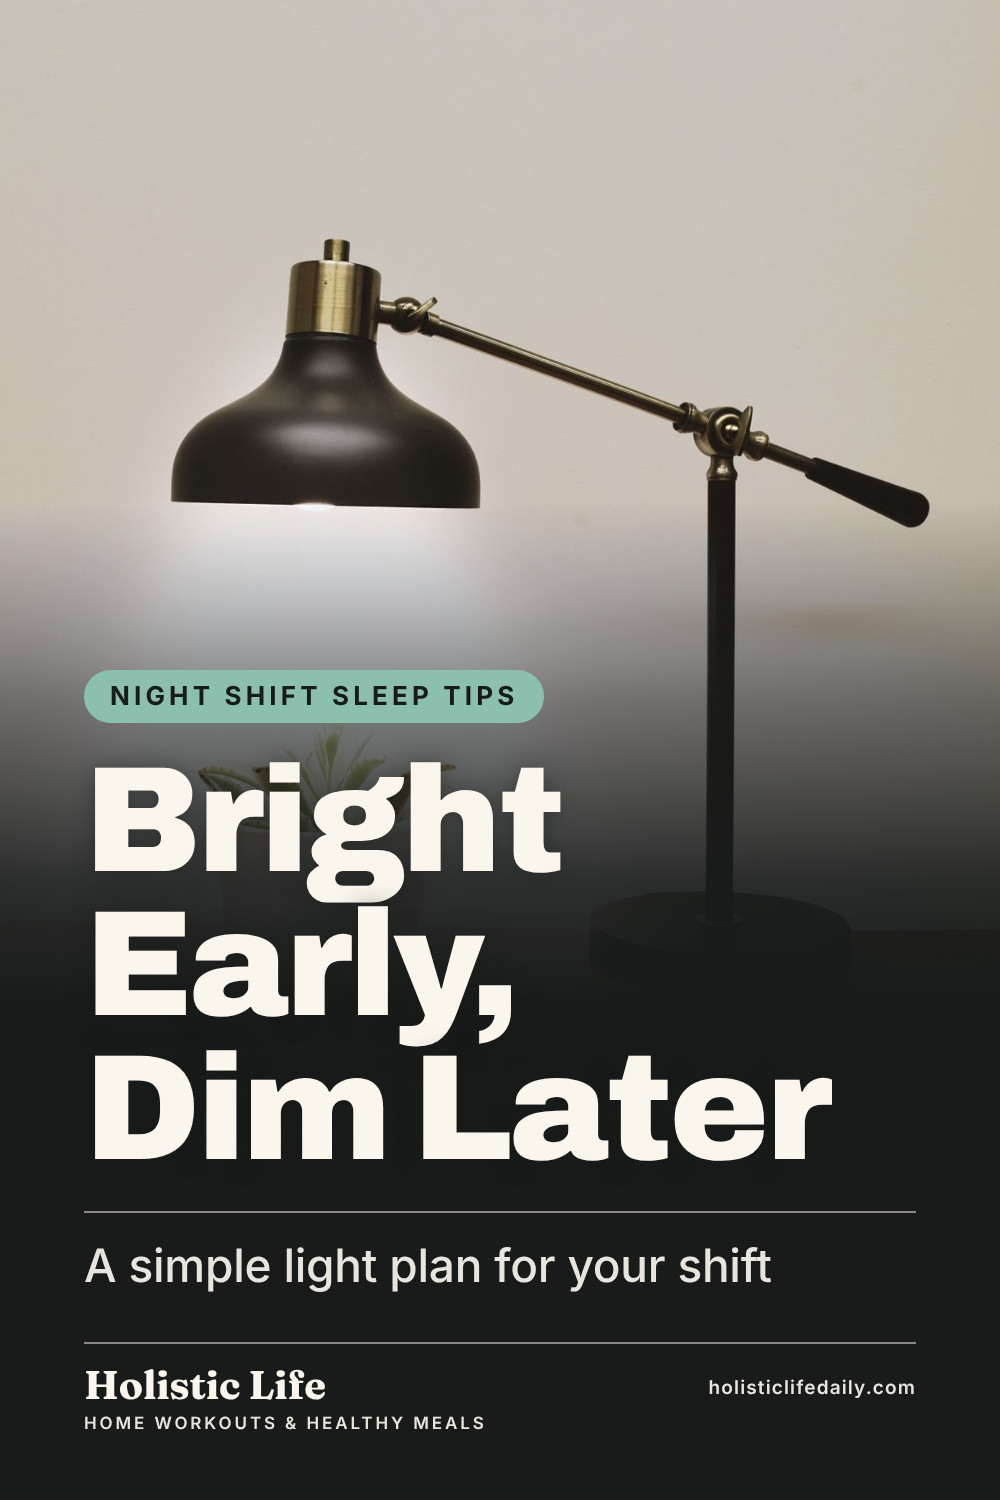
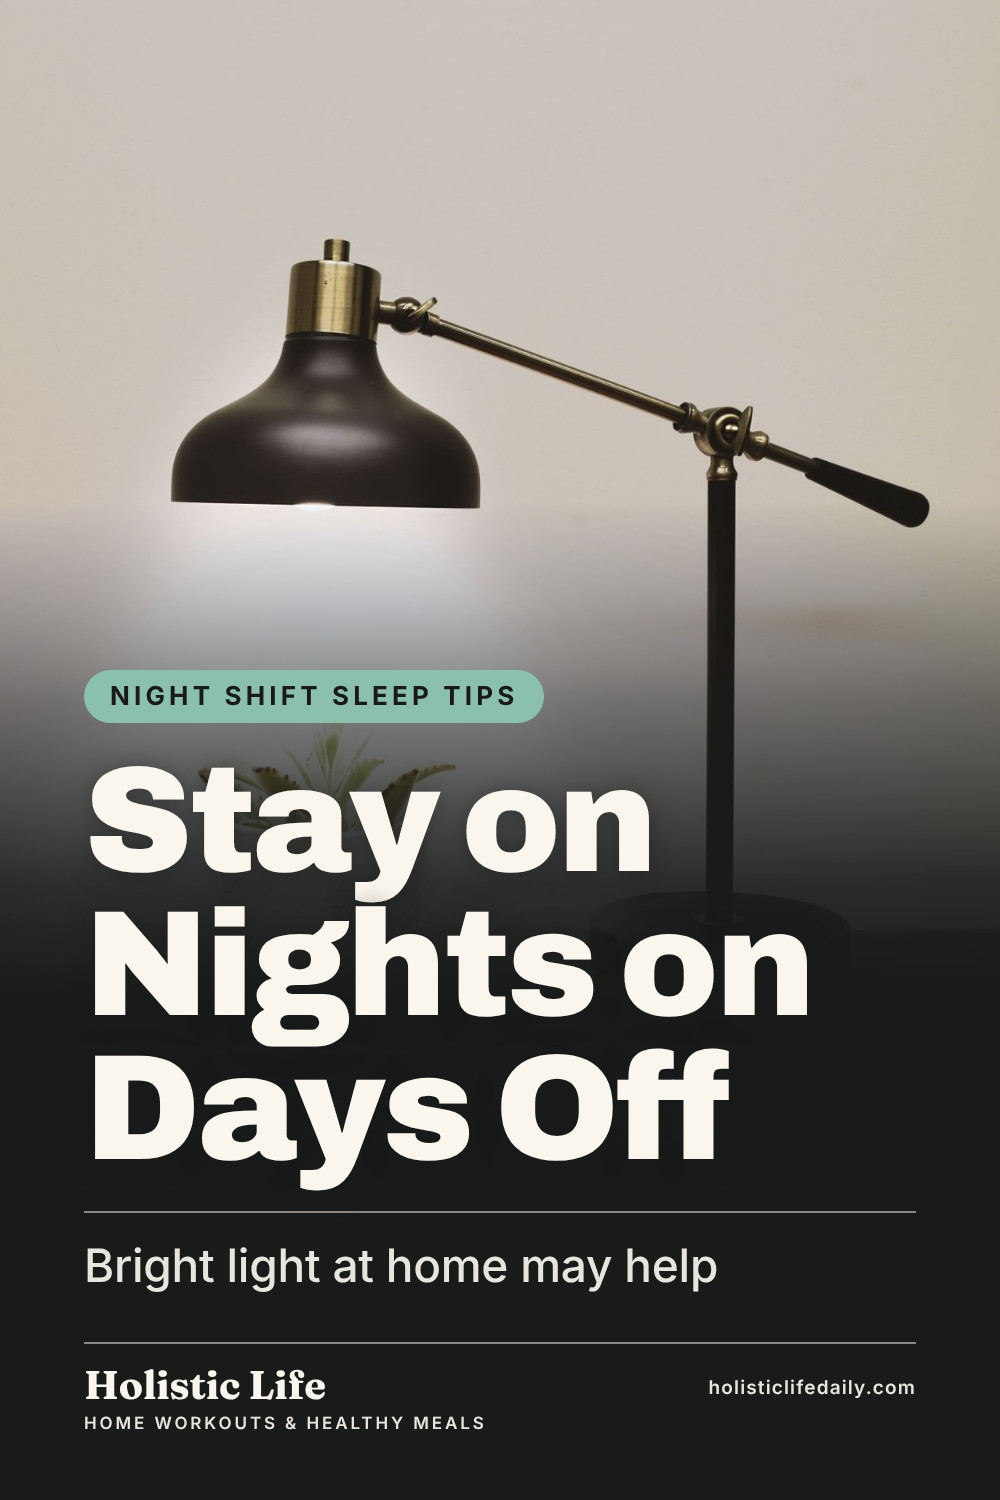
Publish sleep guide days-off lamp update
Claude-Session: https://claude.ai/code/session_017QtdKFqWoupn52W2yrGxz3

Changed region(s): [[0.093, 0.4907, 0.837, 0.7973], [0.062, 0.828, 0.775, 0.8587]]

diff --git a/guides/night-shift-sleep-tips/index.html b/guides/night-shift-sleep-tips/index.html
@@ -4,18 +4,18 @@
 <meta charset="utf-8">
 <meta name="viewport" content="width=device-width, initial-scale=1">
 <title>Sleep Tips for Night Shift Workers: How to Sleep Better | Holistic Life</title>
-<meta name="description" content="Sleep tips for night shift workers: how to darken your room, cut screen light, use a bright lamp on shift and build a wind-down routine for daytime sleep.">
+<meta name="description" content="Sleep tips for night shift workers: how to darken your room, cut screen light, use a bright lamp to stay on nights on days off and wind down well.">
 <link rel="canonical" href="https://holisticlifedaily.com/guides/night-shift-sleep-tips/">
 <meta name="p:domain_verify" content="14c06b8bf0c35beb512a518e90c0c33b">
 <meta property="og:site_name" content="Holistic Life">
 <meta property="og:type" content="article">
 <meta property="og:title" content="Sleep Tips for Night Shift Workers: How to Sleep Better | Holistic Life">
-<meta property="og:description" content="Sleep tips for night shift workers: how to darken your room, cut screen light, use a bright lamp on shift and build a wind-down routine for daytime sleep.">
+<meta property="og:description" content="Sleep tips for night shift workers: how to darken your room, cut screen light, use a bright lamp to stay on nights on days off and wind down well.">
 <meta property="og:url" content="https://holisticlifedaily.com/guides/night-shift-sleep-tips/">
 <meta property="og:image" content="https://holisticlifedaily.com/pins/night-shift-sleep-tips-1.jpg">
 <meta name="twitter:card" content="summary_large_image">
 <meta name="twitter:title" content="Sleep Tips for Night Shift Workers: How to Sleep Better | Holistic Life">
-<meta name="twitter:description" content="Sleep tips for night shift workers: how to darken your room, cut screen light, use a bright lamp on shift and build a wind-down routine for daytime sleep.">
+<meta name="twitter:description" content="Sleep tips for night shift workers: how to darken your room, cut screen light, use a bright lamp to stay on nights on days off and wind down well.">
 <meta name="twitter:image" content="https://holisticlifedaily.com/pins/night-shift-sleep-tips-1.jpg">
 <link rel="icon" type="image/svg+xml" href="../../assets/favicon.svg">
 <link rel="alternate" type="application/rss+xml" title="Holistic Life" href="../../feed.xml">
@@ -23,9 +23,9 @@
 <link rel="preload" href="../../assets/fonts/archivo-latin-800-normal.woff2" as="font" type="font/woff2" crossorigin>
 <link rel="stylesheet" href="../../assets/site.css">
 <script defer src="https://cloud.umami.is/script.js" data-website-id="9c8e6ba1-862d-4f0f-8a5b-29bc94f84b19"></script>
-<script type="application/ld+json">{"@context": "https://schema.org", "@type": "Article", "headline": "Sleep Tips for Night Shift Workers: How to Sleep Better", "description": "Sleep tips for night shift workers: how to darken your room, cut screen light, use a bright lamp on shift and build a wind-down routine for daytime sleep.", "datePublished": "2026-11-18", "dateModified": "2026-11-18", "mainEntityOfPage": "https://holisticlifedaily.com/guides/night-shift-sleep-tips/", "author": {"@type": "Organization", "name": "Holistic Life", "url": "https://holisticlifedaily.com/"}, "publisher": {"@type": "Organization", "name": "Holistic Life", "url": "https://holisticlifedaily.com/"}, "image": ["https://holisticlifedaily.com/pins/night-shift-sleep-tips-1.jpg", "https://holisticlifedaily.com/pins/night-shift-sleep-tips-2.jpg", "https://holisticlifedaily.com/pins/night-shift-sleep-tips-3.jpg", "https://holisticlifedaily.com/pins/night-shift-sleep-tips-4.jpg"]}</script>
+<script type="application/ld+json">{"@context": "https://schema.org", "@type": "Article", "headline": "Sleep Tips for Night Shift Workers: How to Sleep Better", "description": "Sleep tips for night shift workers: how to darken your room, cut screen light, use a bright lamp to stay on nights on days off and wind down well.", "datePublished": "2026-11-18", "dateModified": "2026-11-18", "mainEntityOfPage": "https://holisticlifedaily.com/guides/night-shift-sleep-tips/", "author": {"@type": "Organization", "name": "Holistic Life", "url": "https://holisticlifedaily.com/"}, "publisher": {"@type": "Organization", "name": "Holistic Life", "url": "https://holisticlifedaily.com/"}, "image": ["https://holisticlifedaily.com/pins/night-shift-sleep-tips-1.jpg", "https://holisticlifedaily.com/pins/night-shift-sleep-tips-2.jpg", "https://holisticlifedaily.com/pins/night-shift-sleep-tips-3.jpg", "https://holisticlifedaily.com/pins/night-shift-sleep-tips-4.jpg"]}</script>
 <script type="application/ld+json">{"@context": "https://schema.org", "@type": "BreadcrumbList", "itemListElement": [{"@type": "ListItem", "position": 1, "name": "Holistic Life", "item": "https://holisticlifedaily.com/"}, {"@type": "ListItem", "position": 2, "name": "Sleep Tips for Night Shift Workers: How to Sleep Better", "item": "https://holisticlifedaily.com/guides/night-shift-sleep-tips/"}]}</script>
-<script type="application/ld+json">{"@context": "https://schema.org", "@type": "FAQPage", "mainEntity": [{"@type": "Question", "name": "Is it okay to look at my phone before sleep after a night shift?", "acceptedAnswer": {"@type": "Answer", "text": "It is better to put it away. If you need it, use a red or night light mode and keep the brightness low. Light is only part of it, since stressful messages and news can keep you awake too."}}, {"@type": "Question", "name": "Do I need a light therapy lamp?", "acceptedAnswer": {"@type": "Answer", "text": "No. It is one option for getting bright light during a shift. If you have an eye condition, or you take medicine that affects light sensitivity, ask a clinician before you use one. Check your workplace rules before you put one at your workstation."}}]}</script>
+<script type="application/ld+json">{"@context": "https://schema.org", "@type": "FAQPage", "mainEntity": [{"@type": "Question", "name": "Is it okay to look at my phone before sleep after a night shift?", "acceptedAnswer": {"@type": "Answer", "text": "It is better to put it away. If you need it, use a red or night light mode and keep the brightness low. Light is only part of it, since stressful messages and news can keep you awake too."}}, {"@type": "Question", "name": "Do I need a light therapy lamp?", "acceptedAnswer": {"@type": "Answer", "text": "No. It is one option for people who want to stay awake at night on their days off and keep a night schedule. If you have an eye condition, or you take medicine that affects light sensitivity, ask a clinician before you use one, and follow the lamp maker's directions on timing and distance."}}]}</script>
 </head>
 <body>
 <a class="skip" href="#main">Skip to content</a>
@@ -52,10 +52,10 @@
   <section class="quick" aria-labelledby="quick-h">
     <h2 id="quick-h">Quick answer</h2>
     <ul>
-<li>Make the bedroom as dark as you can: blackout curtains, covered edges, a sleep mask and a dim red night light.</li><li>Turn screens off before sleep. If you must use one, switch to a red or night light mode and keep it dim.</li><li>Get bright light early in your shift and dim it toward the end, which may give your body a clearer signal.</li><li>Keep a short, repeatable wind-down, and ask a clinician if sleep is still a problem.</li>    </ul>
+<li>Make the bedroom as dark as you can: blackout curtains, covered edges, a sleep mask and a dim red night light.</li><li>Turn screens off before sleep. If you must use one, switch to a red or night light mode and keep it dim.</li><li>On days off, if you want to keep your night schedule, bright light at home in the evening may help you stay awake.</li><li>Keep a short, repeatable wind-down, and ask a clinician if sleep is still a problem.</li>    </ul>
   </section>
   <div class="guide-body">
-<p>Sleeping in the daytime is hard. Your body expects to be awake while the sun is up, and the world outside is loud and bright. These sleep tips for night shift workers draw on CDC NIOSH guidance for nurses: a dark room, less screen light, bright light on the job and a routine you can repeat. This page is for nurses and other shift workers, and it leaves out supplements and sleep aids.</p>
+<p>Sleeping in the daytime is hard. Your body expects to be awake while the sun is up, and the world outside is loud and bright. These sleep tips for night shift workers draw on CDC NIOSH guidance for nurses: a dark room, less screen light, bright light at home when you want to stay awake, and a routine you can repeat. This page is for nurses and other shift workers, and it leaves out supplements and sleep aids.</p>
 <h2>Why daytime sleep is harder</h2>
 <p>Your body clock follows light. Sun and bright rooms tell your brain it is time to be awake, so sleep after a night shift can be shorter and lighter than sleep at night. Noise, phones and family life during the day add to it. You cannot change the sun, but you can change what reaches your eyes and ears. For the food side of the same problem, see our <a href="../../guides/night-shift-meal-prep/">meal prep ideas</a> for 12-hour shifts.</p>
 <h2>Make the bedroom dark</h2>
@@ -77,12 +77,13 @@
 <li>Avoid news, work email and social media that gets you worked up. Stressful content can keep you awake even on a dim screen.</li>
 <li>Set a time to stop, and put the phone out of reach.</li>
 </ul>
-<h2>Use light on shift to stay awake</h2>
-<p>NIOSH training material for nurses suggests getting bright light early in a night shift and then reducing it later, so your body gets a clearer signal about when to wind down. A few simple ways to do that:</p>
+<h2>Stay on nights on your days off</h2>
+<p>Plenty of night workers keep their night schedule on days off, so they are not flipping back and forth between nights and days. The hard part is staying awake through the small hours at home, where the lights are low and the couch is close. Light is one tool for that, because bright light tells your body it is time to be awake.</p>
 <ul>
-<li>Work in a bright area early in your shift if you can.</li>
-<li>A light therapy lamp, also sold as a SAD lamp or a bright light lamp, is one option for a desk or break area. Check your workplace rules first.</li>
-<li>Dim the lights, and avoid bright screens, toward the end of the shift if your tasks allow it.</li>
+<li>Keep the lights bright in the evening and early part of your night at home.</li>
+<li>A light therapy lamp, also sold as a SAD lamp or a bright light lamp, is one option. Put it where you will be sitting, and follow the maker's directions for distance and timing.</li>
+<li>Plan the rest of the night too: a meal, a walk, a call, a project. Light helps, but you still need something to do.</li>
+<li>Dim the lights and switch to the wind-down routine below a few hours before you plan to sleep, so the lamp does not push your bedtime later.</li>
 </ul>
 <p>If you have an eye condition or take medicine that makes you sensitive to light, ask a clinician before you use a light therapy lamp.</p>
 <h2>Around your shift</h2>
@@ -160,7 +161,7 @@
   </article>
   <article class="pick">
     <h3><span class="pick-n" aria-hidden="true">6</span>Light therapy lamp</h3>
-    <p>A bright lamp, also sold as a SAD lamp or bright light lamp, gives you strong light at your desk or at home before a shift.</p>
+    <p>A bright lamp, also sold as a SAD lamp or bright light lamp, gives you strong light at home on days off, when you want to stay awake at night and keep your night schedule.</p>
     <p class="pick-label">What to look for</p>
     <ul class="checks">
       <li>A description that states its brightness in lux</li>
@@ -181,7 +182,7 @@
     <h3>Is it okay to look at my phone before sleep after a night shift?</h3>
     <p>It is better to put it away. If you need it, use a red or night light mode and keep the brightness low. Light is only part of it, since stressful messages and news can keep you awake too.</p>
     <h3>Do I need a light therapy lamp?</h3>
-    <p>No. It is one option for getting bright light during a shift. If you have an eye condition, or you take medicine that affects light sensitivity, ask a clinician before you use one. Check your workplace rules before you put one at your workstation.</p>
+    <p>No. It is one option for people who want to stay awake at night on their days off and keep a night schedule. If you have an eye condition, or you take medicine that affects light sensitivity, ask a clinician before you use one, and follow the lamp maker&#39;s directions on timing and distance.</p>
   </section>
   <section class="sources" aria-labelledby="src-h">
     <h2 id="src-h">Sources</h2>
@@ -200,7 +201,7 @@
       <li><a href="https://www.pinterest.com/pin/create/button/?url=https%3A%2F%2Fholisticlifedaily.com%2Fguides%2Fnight-shift-sleep-tips%2F&amp;media=https%3A%2F%2Fholisticlifedaily.com%2Fpins%2Fnight-shift-sleep-tips-1.jpg&amp;description=Sleep%20tips%20for%20night%20shift%20workers%20start%20with%20a%20dark%20room.%20Hang%20blackout%20curtains%2C%20cover%20the%20gaps%20at%20the%20edges%2C%20block%20light%20under%20the%20door%20and%20add%20a%20sleep%20mask.%20A%20short%20guide%20for%20nurses%20and%20shift%20workers%2C%20with%20gear%20picks.%20Guide%20contains%20affiliate%20links." target="_blank" rel="noopener"><img src="../../pins/night-shift-sleep-tips-1.jpg" alt="Photo of a dim bedroom with dark curtains drawn beside a window, with the headline Make Your Room Truly Dark." width="1000" height="1500" loading="lazy"><span class="pin-save">Save to Pinterest</span></a></li>
       <li><a href="https://www.pinterest.com/pin/create/button/?url=https%3A%2F%2Fholisticlifedaily.com%2Fguides%2Fnight-shift-sleep-tips%2F&amp;media=https%3A%2F%2Fholisticlifedaily.com%2Fpins%2Fnight-shift-sleep-tips-2.jpg&amp;description=How%20to%20sleep%20better%20after%20a%20night%20shift%3A%20put%20the%20phone%20on%20silent%2C%20turn%20screens%20off%20or%20switch%20to%20a%20red%20light%20mode%2C%20keep%20the%20room%20dim%20and%20follow%20the%20same%20five%20steps%20every%20day.%20Sleep%20tips%20for%20nurses%20and%20shift%20workers.%20Guide%20contains%20affiliate%20links." target="_blank" rel="noopener"><img src="../../pins/night-shift-sleep-tips-2.jpg" alt="Photo of a dark bedroom lit by warm light through sheer curtains, with the headline A Screen-Free Wind-Down and a five-step list." width="1000" height="1500" loading="lazy"><span class="pin-save">Save to Pinterest</span></a></li>
       <li><a href="https://www.pinterest.com/pin/create/button/?url=https%3A%2F%2Fholisticlifedaily.com%2Fguides%2Fnight-shift-sleep-tips%2F&amp;media=https%3A%2F%2Fholisticlifedaily.com%2Fpins%2Fnight-shift-sleep-tips-3.jpg&amp;description=A%20sleep%20routine%20for%20night%20shift%20starts%20with%20the%20room.%20Blackout%20curtains%2C%20a%20draft%20stopper%20under%20the%20door%2C%20a%20sleep%20mask%2C%20earplugs%20and%20a%20red%20night%20light%20make%20daytime%20sleep%20easier.%20Sleep%20tips%20for%20nurses%20and%20shift%20workers.%20Guide%20contains%20affiliate%20links." target="_blank" rel="noopener"><img src="../../pins/night-shift-sleep-tips-3.jpg" alt="Photo of a gray sleep mask resting on white bedding, with the headline Dark and Quiet and a five-item list." width="1000" height="1500" loading="lazy"><span class="pin-save">Save to Pinterest</span></a></li>
-      <li><a href="https://www.pinterest.com/pin/create/button/?url=https%3A%2F%2Fholisticlifedaily.com%2Fguides%2Fnight-shift-sleep-tips%2F&amp;media=https%3A%2F%2Fholisticlifedaily.com%2Fpins%2Fnight-shift-sleep-tips-4.jpg&amp;description=Night%20shift%20sleep%20tips%20often%20start%20with%20light.%20Get%20bright%20light%20early%20in%20your%20shift%2C%20such%20as%20a%20lamp%20at%20your%20desk%2C%20then%20dim%20it%20toward%20the%20end%20to%20help%20you%20wind%20down%20for%20sleep%20at%20home.%20Includes%20room%20and%20screen%20tips.%20Guide%20contains%20affiliate%20links." target="_blank" rel="noopener"><img src="../../pins/night-shift-sleep-tips-4.jpg" alt="Photo of a dark bronze desk lamp shining on a small plant on a wooden desk, with the headline Bright Early, Dim Later." width="1000" height="1500" loading="lazy"><span class="pin-save">Save to Pinterest</span></a></li>
+      <li><a href="https://www.pinterest.com/pin/create/button/?url=https%3A%2F%2Fholisticlifedaily.com%2Fguides%2Fnight-shift-sleep-tips%2F&amp;media=https%3A%2F%2Fholisticlifedaily.com%2Fpins%2Fnight-shift-sleep-tips-4.jpg&amp;description=Night%20shift%20sleep%20tips%20for%20your%20days%20off%3A%20keep%20the%20lights%20bright%20at%20home%20in%20the%20evening%2C%20try%20a%20light%20therapy%20lamp%20if%20you%20like%2C%20plan%20something%20to%20do%20overnight%2C%20then%20wind%20down%20before%20bed.%20Includes%20room%20and%20screen%20tips.%20Guide%20contains%20affiliate%20links." target="_blank" rel="noopener"><img src="../../pins/night-shift-sleep-tips-4.jpg" alt="Photo of a dark bronze desk lamp shining on a small plant on a wooden desk, with the headline Stay on Nights on Days Off." width="1000" height="1500" loading="lazy"><span class="pin-save">Save to Pinterest</span></a></li>
     </ul>
   </section>
 </article>

diff --git a/guides/beginner-dumbbell-workout/index.html b/guides/beginner-dumbbell-workout/index.html
@@ -215,7 +215,7 @@
   <span class="card-text">
     <span class="label">Starter plan</span>
     <span class="card-title">Sleep Tips for Night Shift Workers: How to Sleep Better</span>
-    <span class="card-desc">Sleep tips for night shift workers: how to darken your room, cut screen light, use a bright lamp on shift and build a wind-down routine for daytime sleep.</span>
+    <span class="card-desc">Sleep tips for night shift workers: how to darken your room, cut screen light, use a bright lamp to stay on nights on days off and wind down well.</span>
     <span class="card-meta">7 min read</span>
   </span>
 </a>

diff --git a/guides/beginner-home-workout/index.html b/guides/beginner-home-workout/index.html
@@ -243,7 +243,7 @@
   <span class="card-text">
     <span class="label">Starter plan</span>
     <span class="card-title">Sleep Tips for Night Shift Workers: How to Sleep Better</span>
-    <span class="card-desc">Sleep tips for night shift workers: how to darken your room, cut screen light, use a bright lamp on shift and build a wind-down routine for daytime sleep.</span>
+    <span class="card-desc">Sleep tips for night shift workers: how to darken your room, cut screen light, use a bright lamp to stay on nights on days off and wind down well.</span>
     <span class="card-meta">7 min read</span>
   </span>
 </a>

diff --git a/guides/beginner-walking-plan/index.html b/guides/beginner-walking-plan/index.html
@@ -235,7 +235,7 @@
   <span class="card-text">
     <span class="label">Starter plan</span>
     <span class="card-title">Sleep Tips for Night Shift Workers: How to Sleep Better</span>
-    <span class="card-desc">Sleep tips for night shift workers: how to darken your room, cut screen light, use a bright lamp on shift and build a wind-down routine for daytime sleep.</span>
+    <span class="card-desc">Sleep tips for night shift workers: how to darken your room, cut screen light, use a bright lamp to stay on nights on days off and wind down well.</span>
     <span class="card-meta">7 min read</span>
   </span>
 </a>

diff --git a/guides/gifts-for-new-nurse-grads/index.html b/guides/gifts-for-new-nurse-grads/index.html
@@ -215,7 +215,7 @@
   <span class="card-text">
     <span class="label">Starter plan</span>
     <span class="card-title">Sleep Tips for Night Shift Workers: How to Sleep Better</span>
-    <span class="card-desc">Sleep tips for night shift workers: how to darken your room, cut screen light, use a bright lamp on shift and build a wind-down routine for daytime sleep.</span>
+    <span class="card-desc">Sleep tips for night shift workers: how to darken your room, cut screen light, use a bright lamp to stay on nights on days off and wind down well.</span>
     <span class="card-meta">7 min read</span>
   </span>
 </a>

diff --git a/guides/gifts-for-nurses/index.html b/guides/gifts-for-nurses/index.html
@@ -278,7 +278,7 @@
   <span class="card-text">
     <span class="label">Starter plan</span>
     <span class="card-title">Sleep Tips for Night Shift Workers: How to Sleep Better</span>
-    <span class="card-desc">Sleep tips for night shift workers: how to darken your room, cut screen light, use a bright lamp on shift and build a wind-down routine for daytime sleep.</span>
+    <span class="card-desc">Sleep tips for night shift workers: how to darken your room, cut screen light, use a bright lamp to stay on nights on days off and wind down well.</span>
     <span class="card-meta">7 min read</span>
   </span>
 </a>

diff --git a/guides/high-protein-dinners/index.html b/guides/high-protein-dinners/index.html
@@ -196,7 +196,7 @@
   <span class="card-text">
     <span class="label">Starter plan</span>
     <span class="card-title">Sleep Tips for Night Shift Workers: How to Sleep Better</span>
-    <span class="card-desc">Sleep tips for night shift workers: how to darken your room, cut screen light, use a bright lamp on shift and build a wind-down routine for daytime sleep.</span>
+    <span class="card-desc">Sleep tips for night shift workers: how to darken your room, cut screen light, use a bright lamp to stay on nights on days off and wind down well.</span>
     <span class="card-meta">7 min read</span>
   </span>
 </a>

diff --git a/guides/labor-and-delivery-nurse-gifts/index.html b/guides/labor-and-delivery-nurse-gifts/index.html
@@ -273,7 +273,7 @@
   <span class="card-text">
     <span class="label">Starter plan</span>
     <span class="card-title">Sleep Tips for Night Shift Workers: How to Sleep Better</span>
-    <span class="card-desc">Sleep tips for night shift workers: how to darken your room, cut screen light, use a bright lamp on shift and build a wind-down routine for daytime sleep.</span>
+    <span class="card-desc">Sleep tips for night shift workers: how to darken your room, cut screen light, use a bright lamp to stay on nights on days off and wind down well.</span>
     <span class="card-meta">7 min read</span>
   </span>
 </a>

diff --git a/guides/night-shift-meal-prep/index.html b/guides/night-shift-meal-prep/index.html
@@ -209,7 +209,7 @@
   <span class="card-text">
     <span class="label">Starter plan</span>
     <span class="card-title">Sleep Tips for Night Shift Workers: How to Sleep Better</span>
-    <span class="card-desc">Sleep tips for night shift workers: how to darken your room, cut screen light, use a bright lamp on shift and build a wind-down routine for daytime sleep.</span>
+    <span class="card-desc">Sleep tips for night shift workers: how to darken your room, cut screen light, use a bright lamp to stay on nights on days off and wind down well.</span>
     <span class="card-meta">7 min read</span>
   </span>
 </a>
